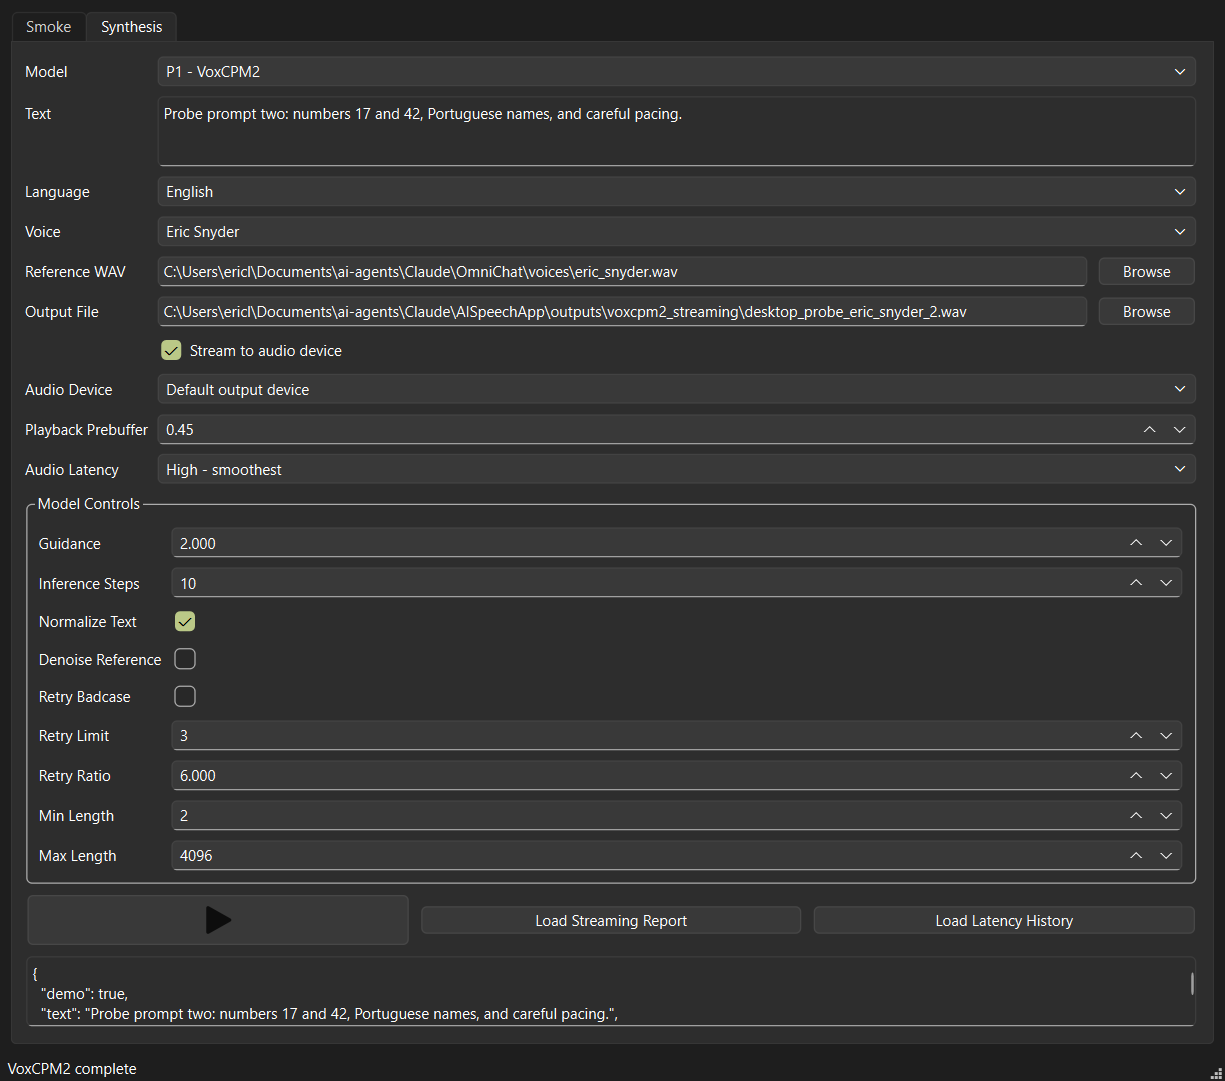
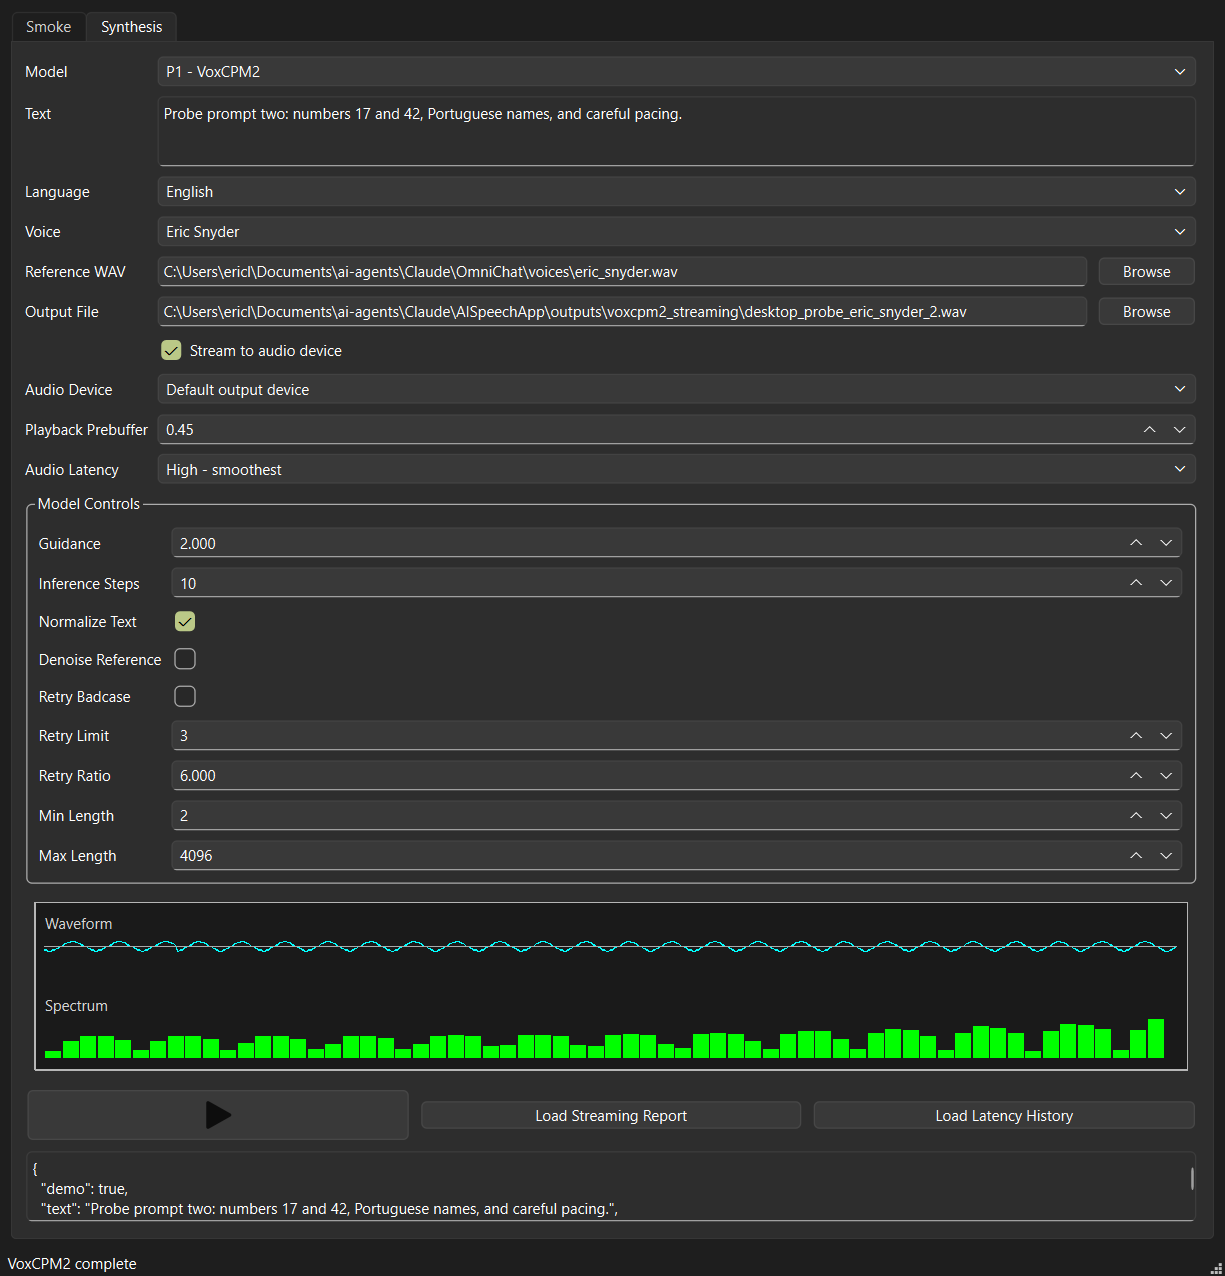
Add realtime audio visualizer

diff --git a/aispeechapp/gui.py b/aispeechapp/gui.py
@@ -9,6 +9,8 @@ import sys
 import wave
 from pathlib import Path
 
+import numpy as np
+
 from aispeechapp.candidates import PROJECT_ROOT, load_candidates
 from aispeechapp.voxcpm2_streaming import (
     DEFAULT_HISTORY_PATH,
@@ -96,6 +98,7 @@ def _run_voxcpm2_streaming(
     playback_prebuffer_s: float,
     audio_latency: str | None,
     generation_options: dict[str, object] | None = None,
+    audio_observer=None,
 ) -> str:
     options = generation_options or {}
     result = synthesize_voxcpm2_streaming(
@@ -115,6 +118,7 @@ def _run_voxcpm2_streaming(
         retry_badcase=bool(options.get("retry_badcase", False)),
         retry_badcase_max_times=int(options.get("retry_badcase_max_times", 3)),
         retry_badcase_ratio_threshold=float(options.get("retry_badcase_ratio_threshold", 6.0)),
+        audio_observer=audio_observer,
     )
     write_streaming_report(result, DEFAULT_REPORT_PATH)
     append_streaming_history(result, DEFAULT_HISTORY_PATH)
@@ -192,6 +196,98 @@ def create_main_window(
         widget.setObjectName(object_name)
         widget.setAccessibleName(accessible_name or object_name)
         return widget
+
+    class AudioVisualizer(QtWidgets.QWidget):
+        def __init__(self) -> None:
+            super().__init__()
+            self._sample_rate = 48000
+            self._samples = np.zeros(0, dtype=np.float32)
+            self._spectrum = np.zeros(64, dtype=np.float32)
+            self.setMinimumHeight(150)
+            self.setSizePolicy(QtWidgets.QSizePolicy.Policy.Expanding, QtWidgets.QSizePolicy.Policy.Fixed)
+
+        @property
+        def sample_count(self) -> int:
+            return int(self._samples.shape[0])
+
+        @property
+        def spectrum_peak(self) -> float:
+            return float(self._spectrum.max(initial=0.0))
+
+        def clear(self) -> None:
+            self._samples = np.zeros(0, dtype=np.float32)
+            self._spectrum = np.zeros(64, dtype=np.float32)
+            self.update()
+
+        def append_audio(self, audio: np.ndarray, sample_rate: int) -> None:
+            samples = np.asarray(audio, dtype=np.float32).reshape(-1)
+            if samples.size == 0:
+                return
+            self._sample_rate = sample_rate
+            max_samples = max(1, sample_rate * 2)
+            self._samples = np.concatenate([self._samples, samples])[-max_samples:]
+            window = self._samples[-min(self._samples.size, 4096):]
+            if window.size >= 32:
+                shaped = window * np.hanning(window.size)
+                spectrum = np.abs(np.fft.rfft(shaped))
+                spectrum = spectrum[: min(64, spectrum.size)]
+                peak = float(spectrum.max(initial=0.0))
+                self._spectrum = (spectrum / peak).astype(np.float32) if peak else np.zeros(64, dtype=np.float32)
+            self.update()
+            app = QtWidgets.QApplication.instance()
+            if app is not None:
+                app.processEvents(QtCore.QEventLoop.ProcessEventsFlag.ExcludeUserInputEvents)
+
+        def paintEvent(self, event) -> None:  # noqa: N802
+            del event
+            painter = QtWidgets.QStylePainter(self)
+            rect = self.rect().adjusted(8, 8, -8, -8)
+            painter.fillRect(rect, self.palette().color(self.backgroundRole()).darker(115))
+            painter.setPen(self.palette().color(self.foregroundRole()).darker(140))
+            painter.drawRect(rect)
+            if rect.width() <= 4 or rect.height() <= 4:
+                return
+
+            wave_rect = QtCore.QRect(rect.left() + 8, rect.top() + 8, rect.width() - 16, rect.height() // 2 - 12)
+            spec_rect = QtCore.QRect(
+                rect.left() + 8,
+                rect.center().y() + 8,
+                rect.width() - 16,
+                rect.bottom() - rect.center().y() - 16,
+            )
+            painter.setPen(self.palette().color(self.foregroundRole()).darker(120))
+            painter.drawText(wave_rect.adjusted(0, 0, 0, -wave_rect.height() + 18), "Waveform")
+            painter.drawText(spec_rect.adjusted(0, 0, 0, -spec_rect.height() + 18), "Spectrum")
+
+            waveform = self._samples[-max(1, wave_rect.width()):]
+            if waveform.size:
+                if waveform.size < wave_rect.width():
+                    waveform = np.pad(waveform, (wave_rect.width() - waveform.size, 0))
+                points = []
+                center_y = wave_rect.center().y()
+                amplitude = max(1, wave_rect.height() // 2 - 8)
+                step = max(1, waveform.size // max(1, wave_rect.width()))
+                reduced = waveform[::step][-wave_rect.width():]
+                for index, value in enumerate(reduced):
+                    x = wave_rect.left() + index
+                    y = center_y - int(float(np.clip(value, -1.0, 1.0)) * amplitude)
+                    points.append(QtCore.QPoint(x, y))
+                painter.setPen(QtCore.Qt.GlobalColor.cyan)
+                if len(points) > 1:
+                    painter.drawPolyline(points)
+                painter.setPen(self.palette().color(self.foregroundRole()).darker(150))
+                painter.drawLine(wave_rect.left(), center_y, wave_rect.right(), center_y)
+
+            if self._spectrum.size:
+                bar_count = int(self._spectrum.size)
+                bar_width = max(2, spec_rect.width() // max(1, bar_count))
+                painter.setPen(QtCore.Qt.PenStyle.NoPen)
+                painter.setBrush(QtCore.Qt.GlobalColor.green)
+                for index, magnitude in enumerate(self._spectrum):
+                    height = int(float(magnitude) * max(1, spec_rect.height() - 20))
+                    x = spec_rect.left() + index * bar_width
+                    y = spec_rect.bottom() - height
+                    painter.drawRect(x, y, max(1, bar_width - 1), height)
 
     candidates = load_candidates()
     candidate_by_id = {candidate.id: candidate for candidate in candidates}
@@ -462,8 +558,11 @@ def create_main_window(
     name(stream_output, "stream_output", "Streaming Output")
     stream_output.setReadOnly(True)
     stream_output.setPlainText("Run VoxCPM2 streaming to populate this panel.")
+    audio_visualizer = AudioVisualizer()
+    name(audio_visualizer, "audio_visualizer", "Realtime Audio Visualizer")
     voxcpm_layout.addLayout(form)
     voxcpm_layout.addWidget(parameter_box)
+    voxcpm_layout.addWidget(audio_visualizer)
     voxcpm_layout.addLayout(stream_controls)
     voxcpm_layout.addWidget(stream_output, 1)
     tabs.addTab(voxcpm_tab, "Synthesis")
@@ -501,6 +600,7 @@ def create_main_window(
         candidate_name = candidate_by_id[candidate_id].name
         window.statusBar().showMessage(f"Running {candidate_name}")
         stream_output.setPlainText(f"Running {candidate_name}...")
+        audio_visualizer.clear()
         QtCore.QTimer.singleShot(10, finish_stream_run)
 
     def finish_stream_run() -> None:
@@ -519,6 +619,7 @@ def create_main_window(
                     playback_prebuffer_s=playback_prebuffer.value(),
                     audio_latency=audio_latency.currentData(),
                     generation_options=options,
+                    audio_observer=audio_visualizer.append_audio,
                 )
             )
         else:
@@ -587,6 +688,7 @@ def create_main_window(
     window._voice_reference_box = voice_combo
     window._reference_path = reference_path
     window._stream_output_path = output_path
+    window._audio_visualizer = audio_visualizer
     window._play_audio_checkbox = play_audio
     window._audio_device_box = audio_device
     window._playback_prebuffer_box = playback_prebuffer
@@ -621,9 +723,17 @@ def _demo_streaming(
     playback_prebuffer_s: float = 0.45,
     audio_latency: str | None = "high",
     generation_options: dict[str, object] | None = None,
+    audio_observer=None,
 ) -> str:
     output_file = Path(output_path)
     audio_sha256 = _write_demo_wav(output_file, text=text, reference_wav_path=reference_wav_path)
+    if audio_observer is not None:
+        sample_rate = 16000
+        for chunk_index in range(8):
+            offset = chunk_index * 800
+            samples = np.arange(offset, offset + 800, dtype=np.float32) / sample_rate
+            audio = 0.22 * np.sin(2 * math.pi * (220 + chunk_index * 35) * samples)
+            audio_observer(audio.astype(np.float32), sample_rate)
     payload = {
         "demo": True,
         "text": text,

diff --git a/tests/test_gui.py b/tests/test_gui.py
@@ -2,6 +2,7 @@ from __future__ import annotations
 
 from dataclasses import dataclass
 
+import numpy as np
 from PySide6 import QtTest, QtWidgets
 
 from aispeechapp.gui import create_main_window
@@ -49,6 +50,7 @@ class StreamCall:
     playback_prebuffer_s: float
     audio_latency: str | None
     generation_options: dict[str, object]
+    audio_observer: object
 
 
 def test_gui_voxcpm2_streaming_button_passes_reference_device_and_output(tmp_path):
@@ -56,6 +58,7 @@ def test_gui_voxcpm2_streaming_button_passes_reference_device_and_output(tmp_pat
     calls: list[StreamCall] = []
 
     def fake_stream(**kwargs):
+        kwargs["audio_observer"](np.ones(512, dtype=np.float32) * 0.25, 16000)
         calls.append(StreamCall(**kwargs))
         return "stream ok"
 
@@ -107,11 +110,31 @@ def test_gui_voxcpm2_streaming_button_passes_reference_device_and_output(tmp_pat
                 "min_len": 2,
                 "max_len": 4096,
             },
+            audio_observer=_find(window, "audio_visualizer").append_audio,
         )
     ]
     assert output.toPlainText() == "stream ok"
     assert button.isEnabled()
     assert window.statusBar().currentMessage() == "VoxCPM2 complete"
+    assert _find(window, "audio_visualizer").sample_count == 512
+    assert _find(window, "audio_visualizer").spectrum_peak > 0.0
+
+
+def test_gui_audio_visualizer_updates_from_audio(tmp_path):
+    _app()
+    window = create_main_window(
+        load_audio_devices_func=lambda: [],
+        load_voice_references_func=lambda: [],
+        settings_path=tmp_path / "settings.local.json",
+    )
+    visualizer = _find(window, "audio_visualizer")
+
+    visualizer.append_audio(np.sin(np.linspace(0, np.pi * 8, 2048, dtype=np.float32)), 48000)
+    pixmap = visualizer.grab()
+
+    assert visualizer.sample_count == 2048
+    assert visualizer.spectrum_peak > 0.0
+    assert not pixmap.isNull()
 
 
 def test_gui_backend_candidate_uses_dynamic_controls(tmp_path):

diff --git a/aispeechapp/voxcpm2_streaming.py b/aispeechapp/voxcpm2_streaming.py
@@ -37,6 +37,7 @@ class AudioSink(Protocol):
 
 ModelFactory = Callable[[], VoxCPM2StreamingModel]
 AudioSinkFactory = Callable[[int, str | int | None, float, str | float | None], AudioSink]
+AudioObserver = Callable[[np.ndarray, int], None]
 
 
 @dataclass(frozen=True)
@@ -173,6 +174,7 @@ def synthesize_voxcpm2_streaming(
     audio_latency: str | float | None = "high",
     model_factory: ModelFactory = _default_model_factory,
     audio_sink_factory: AudioSinkFactory = SoundDeviceSink,
+    audio_observer: AudioObserver | None = None,
     clock: Callable[[], float] = time.perf_counter,
 ) -> StreamingSynthesisResult:
     if not text.strip():
@@ -220,6 +222,8 @@ def synthesize_voxcpm2_streaming(
                 if first_chunk_latency is None:
                     first_chunk_latency = round(now - start, 3)
                 writer.write(audio)
+                if audio_observer is not None:
+                    audio_observer(audio, sample_rate)
                 if audio_sink is not None:
                     audio_sink.write(audio)
                 total_samples += int(audio.shape[0])

diff --git a/README.md b/README.md
@@ -68,7 +68,7 @@ Metadata smoke tab:
 
 ![AISpeechApp metadata smoke tab](docs/images/gui-metadata-smoke.png)
 
-Synthesis tab with VoxCPM2 voice cloning controls:
+Synthesis tab with VoxCPM2 voice cloning controls and live audio visualization:
 
 ![AISpeechApp synthesis tab with VoxCPM2 controls](docs/images/gui-synthesis-controls.png)
 
@@ -102,6 +102,10 @@ real streaming generation may still pay model load time but later generations
 reuse the loaded model. Playback defaults favor smooth output: `0.45s`
 prebuffer and high PortAudio latency. Lower those controls only when tuning for
 minimum start latency.
+
+During streaming playback, the GUI renders a realtime waveform and compact
+frequency spectrum from the same audio chunks that are written to disk and sent
+to the selected output device.
 
 Model-specific generation controls are declared in
 `configs\candidates.json` under each candidate's `generation_parameters` list.